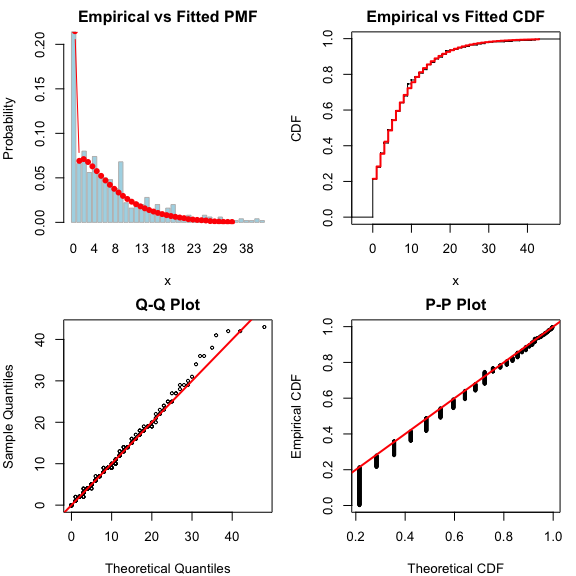
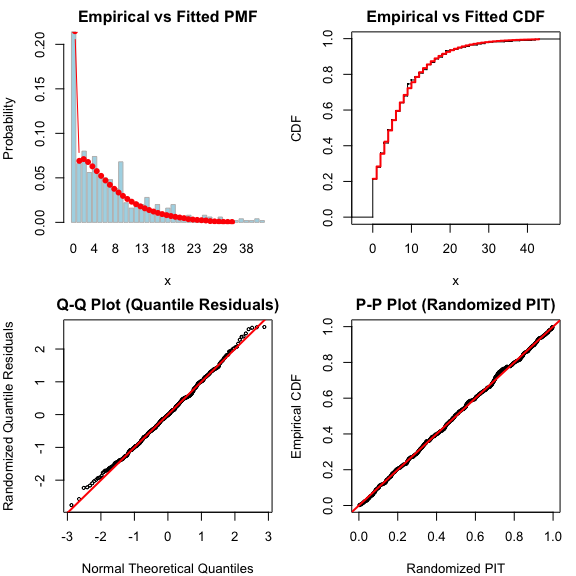
Update discrete vignette and articles for randomized PIT diagnostics
Update plot descriptions to reflect the new randomized PIT-based Q-Q and
P-P plots for discrete families. Re-render articles with updated figures
showing continuous diagonal patterns instead of integer banding.

diff --git a/articles/fitegpd-discrete.md b/articles/fitegpd-discrete.md
@@ -105,7 +105,11 @@ cbind(true = truth, estimate = round(est, 4),
 
 The diagnostic plot for discrete families shows the empirical PMF with
 fitted probabilities (panel 1), a step-function CDF comparison (panel
-2), and Q-Q and P-P plots.
+2), a normal Q-Q plot of randomized quantile residuals (panel 3), and a
+P-P plot using the randomized probability integral transform (panel 4).
+The randomized PIT (Dunn & Smyth, 1996) spreads tied discrete values
+into continuous uniform variates, producing clean diagonal plots instead
+of the banded patterns that arise from integer-valued quantiles.
 
 ``` r
 plot(fit_degpd)
@@ -132,7 +136,7 @@ aic_table
 
       type      AIC
     1    1 4920.769
-    2    4 4921.978
+    2    4 4921.979
     3    5 4922.722
 
 ### Confidence intervals
@@ -244,10 +248,10 @@ summary(fit_zi)
 
     Estimated parameters:
           Estimate Std. Error z value Pr(>|z|)    
-    sigma  1.75242    0.45527   3.849 0.000119 ***
-    xi     0.15798    0.07358   2.147 0.031789 *  
-    kappa  1.98004    0.83642   2.367 0.017919 *  
-    pi     0.36206    0.05961   6.074 1.25e-09 ***
+    sigma  1.75201    0.45741   3.830 0.000128 ***
+    xi     0.15800    0.07385   2.140 0.032389 *  
+    kappa  1.97969    0.84112   2.354 0.018590 *  
+    pi     0.36187    0.05998   6.034  1.6e-09 ***
     ---
     Signif. codes:  0 '***' 0.001 '**' 0.01 '*' 0.05 '.' 0.1 ' ' 1
 
@@ -266,10 +270,10 @@ cbind(true = truth, estimate = round(est, 4),
 ```
 
           true estimate     SE
-    sigma  2.0   1.7524 0.4553
-    xi     0.1   0.1580 0.0736
-    kappa  1.5   1.9800 0.8364
-    pi     0.3   0.3621 0.0596
+    sigma  2.0   1.7520 0.4574
+    xi     0.1   0.1580 0.0738
+    kappa  1.5   1.9797 0.8411
+    pi     0.3   0.3619 0.0600
 
 ### Diagnostics
 
@@ -286,10 +290,10 @@ confint(fit_zi)
 ```
 
                2.5 %    97.5 %
-    sigma 0.86010370 2.6447462
-    xi    0.01376614 0.3022005
-    kappa 0.34069321 3.6193960
-    pi    0.24522643 0.4788926
+    sigma 0.85549768 2.6485174
+    xi    0.01326359 0.3027374
+    kappa 0.33113076 3.6282584
+    pi    0.24431952 0.4794218
 
 ## 3. Comparing DEGPD and ZIDEGPD
 
@@ -364,10 +368,10 @@ summary(fit5)
 
     Estimated parameters:
           Estimate Std. Error z value Pr(>|z|)    
-    sigma   1.6361     0.6106   2.679  0.00738 ** 
-    xi      0.1559     0.0392   3.976 7.01e-05 ***
-    delta   0.4117     0.9827   0.419  0.67523    
-    kappa   1.6597     0.1586  10.464  < 2e-16 ***
+    sigma  1.63595    0.60546   2.702  0.00689 ** 
+    xi     0.15591    0.03919   3.978 6.94e-05 ***
+    delta  0.41132    0.97364   0.422  0.67269    
+    kappa  1.65941    0.15856  10.466  < 2e-16 ***
     ---
     Signif. codes:  0 '***' 0.001 '**' 0.01 '*' 0.05 '.' 0.1 ' ' 1
 
@@ -474,7 +478,8 @@ cbind(true = truth, estimate = round(est, 4),
 ### Diagnostics
 
 The diagnostic plots use discrete-style panels: a barplot with fitted
-PMF points, a step-function CDF, and integer Q-Q and P-P plots.
+PMF points, a step-function CDF, and randomized PIT-based Q-Q and P-P
+plots.
 
 ``` r
 plot(fit_cpdegpd)
@@ -538,4 +543,5 @@ All families:
 - Support `fix.arg` for fixing parameters at known values
 - Estimate standard errors via the delta method on the Hessian
 - Provide four-panel diagnostic plots tailored for discrete data (bar
-  plots for PMF, step functions for CDF)
+  plots for PMF, step functions for CDF, randomized PIT-based Q-Q and
+  P-P plots)
